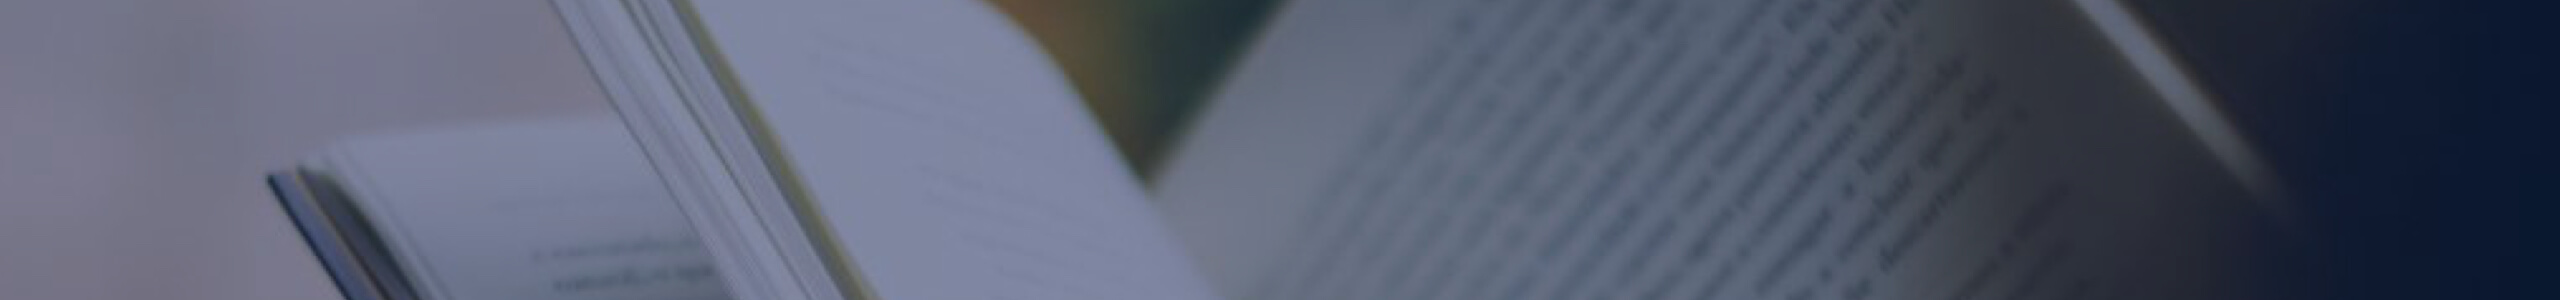
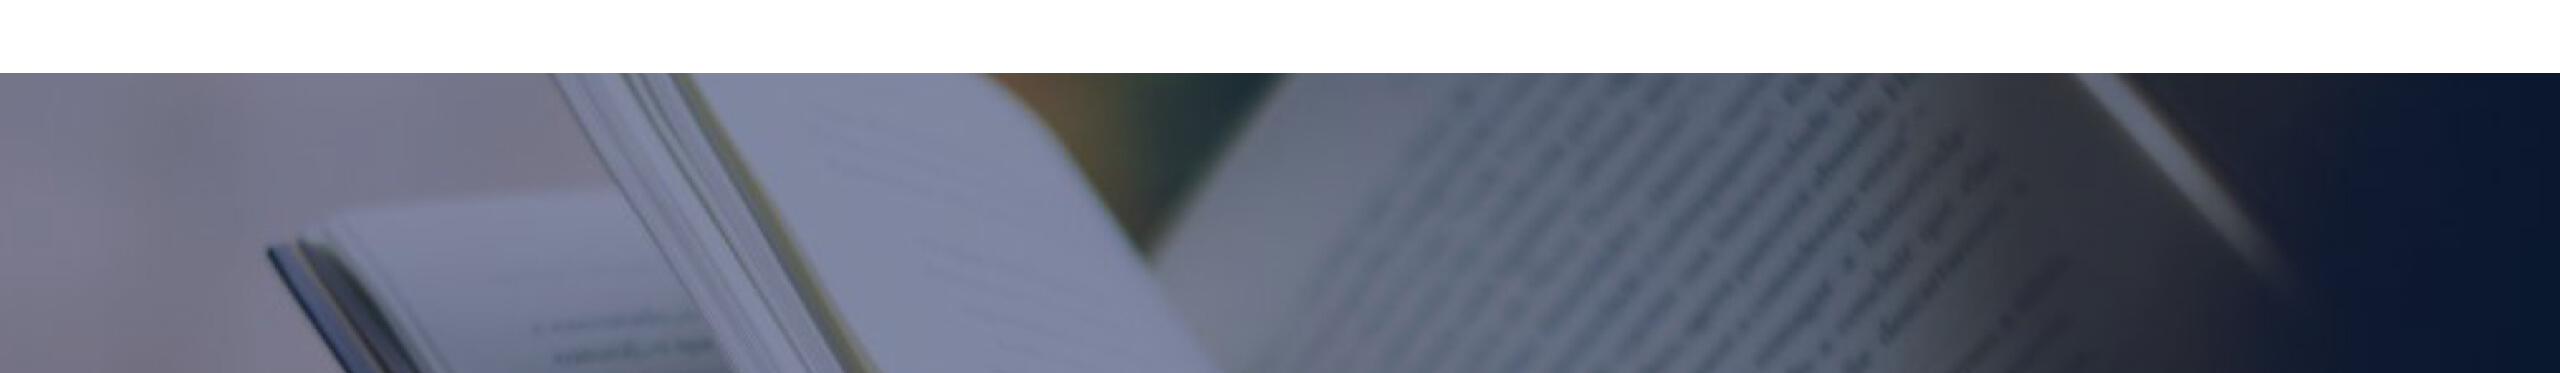
fix some bug
fix some bug

Changed region(s): [[0.0, 0.0, 1.0, 0.87], [0.0938, 0.57, 0.1562, 0.93], [0.2188, 0.42, 0.25, 0.48]]

diff --git a/themes/san/source/css/site.css b/themes/san/source/css/site.css
@@ -6,22 +6,22 @@ body{
 
 
 .home-intro{
-  font-size: 41px;
-  font-weight: 100;
-  color: rgba(255,255,255,.5);
-  letter-spacing: 1px;
-  margin: 0;
+  font-size: 31px;
+    font-weight: 100;
+    color: rgba(255,255,255,.2);
+    letter-spacing: 1px;
+    margin: 0;
+    line-height: 33px;
 }
 
-
-p {
-  /*font-size: 12px;*/
-  line-height: 18px;
-  /*color: #969699;*/
-  /*font-weight: 300;*/
-  margin: 0;
+.home-intro-p{
+  color: rgba(255,255,255,.7);
+  font-size: 16px;
+  padding-right: 90px;
+  padding-left: 5px;
+  font-weight: 200;
+  line-height: 30px;
 }
-
 
 .btn:hover, .btn:focus {
   color: #fff;
@@ -97,7 +97,7 @@ home-landscape
 
 .home-landscape {
   width: 100%;
-  min-height: 557px;
+  max-height: 567px;
   /*background: url("../img/background2.jpg") bottom;*/
   background-color: #102131;
   background-repeat: no-repeat;
@@ -111,13 +111,15 @@ home-landscape
 }
 
 .home-landscape-content-left h1{
-  font-size: 58px;
-    line-height: 90px;
+  font-size: 40px;
+    line-height: 62px;
     color: #fff;
     font-weight: 800;
     margin: 0;
     letter-spacing: 2px;
+    margin-bottom: 23px;
 }
+
 
 .background-img{
   position: absolute;
@@ -142,23 +144,23 @@ home-landscape
 .home-landscape-content{
   max-width: 1130px;
   margin: 0 auto;
-  padding-top: 10%;
   position: relative;
 }
 
-/*.ellipse{
-    position: absolute;
-    left: 50%;
-    margin-left: -720px;
-    z-index: 1;
-}*/
-.home-landscape-content-left>h1{
-  margin-bottom: 20px;
-}
 .home-landscape-content-right{
-  position: absolute;
-  top: -15px;
-  right: -130px;
+  width: 62%;
+  margin-right: -300px;
+  margin-left: -6%;
+  position: relative;
+  display: inline-block;
+  vertical-align: top;
+}
+.home-landscape-content-left{
+  width: 54%;
+  display: inline-block;
+  vertical-align: top;
+  padding-top: 9%;
+  position: relative;
 }
 
 #bm{
@@ -167,16 +169,36 @@ home-landscape
 }
 
 @media screen and (max-width: 768px){
-  .home-landscape-content-right{
-    position: relative;
-    right: 0;
-    top: 0;
-    margin-top: 50px;
+
+  .home-landscape {
+    max-height: 1000px;
   }
+  .home-landscape-content-right{
+    display: block;
+    width: 100%;
+    margin:0; 
+  }
+  .home-landscape-content-left{
+    display: block;
+    width: 100%;
+    box-sizing: border-box;
+    padding: 0 20px;
+  }
+  .home-landscape-content-left h1{
+    font-size: 25px;
+    line-height: 30px;
+  }
+  .home-intro-p{
+    padding: 0;
+    font-size: 14px;
+    line-height: 20px;
+  }
+
   #bm{
     max-width: 600px;
     margin: 0 auto; 
   }
+
 }
 
 /*#oval {
@@ -219,7 +241,7 @@ home-landscape
   position: absolute;
   top: 50%;
   left: 50%;
-  margin-left: -73px;
+  margin-left: -85px;
   margin-top: -9px;
 }
 .navigation-logo>p{
@@ -316,7 +338,7 @@ home-landscape
     font-size: 14px;
     position: relative;
     line-height: 14px;
-    padding: 14px 16px;
+    padding: 15px 16px;
     text-decoration: none;
     display: block;
     border-bottom: 1px solid #f9f9f9;
@@ -818,13 +840,17 @@ margin: 0;
 }
 .home-cooperate-top{
   margin: 133px auto 0 auto;
-  width:33%; 
+  width:27%; 
   height:144px;
   border-top:2px solid #DBE4FD;
   border-left:2px solid #DBE4FD; 
   border-right:2px solid #DBE4FD;
   box-sizing: border-box;
   padding-top: 37px;
+}
+
+.academic-decoration{
+  margin-left: -4px;
 }
 
 .home-cooperate-middle{
@@ -968,7 +994,7 @@ display: block;
 }
 .home-business-left-intro h4,.home-cooperate-top h4{
     font-family: PingFangSC-Semibold;
-    font-size: 37px;
+    font-size: 30px;
     color: #030303;
     letter-spacing: 3.02px;
     margin: 5px 0;
@@ -1109,6 +1135,7 @@ color: #030303;
 letter-spacing: 0.79px;
 line-height: 38px;
 font-weight: 200;
+margin: 0;
 }
 .home-contact-us-left>p>span{
 opacity: 0.4;
@@ -1155,13 +1182,7 @@ margin: 76px 0 37px 30px;
 .float{
   animation: none;
 }
-.home-landscape-content-left h1{
-font-size: 40px;
-line-height: 45px;
-}
-.home-intro{
-  font-size: 28px;
-}
+
 
 .home-landscape-content-left{
   text-align: center;
@@ -1358,15 +1379,4 @@ line-height: 45px;
 .home-contact-right>p{
   margin-left: 0;
 }
-}
-@media screen and (max-width: 432px){
-  .home-landscape-content-left h1{
-    font-size: 32px;
-    line-height: 36px;
-  }
-
-  .home-intro{
-    font-size: 22px;
-  }
-
 }

diff --git a/themes/san/source/css/style.css b/themes/san/source/css/style.css
@@ -30,7 +30,7 @@ dl, dt, dd, ol, ul, li {
   position: absolute;
   top: 50%;
   left: 50%;
-  margin-left: -73px;
+  margin-left: -85px;
   margin-top: -9px;
 }
 .ynavigation-logo>p{
@@ -114,7 +114,7 @@ dl, dt, dd, ol, ul, li {
     font-size: 14px;
     position: relative;
     line-height: 14px;
-    padding: 17px 16px;
+    padding: 18px 16px;
     text-decoration: none;
     display: block;
     border-bottom: 1px solid #f9f9f9;
@@ -436,12 +436,11 @@ line-height: 27px;
 
 .page-info{
     margin-bottom: 50px;
-    margin-top: 72px;
     text-align: center;
-    padding: 40px;
+    padding: 130px 10px 40px 10px;
     color: #4e6167;
     background: #F4F7FC;
-    background: url("../img/paperback.jpg") bottom;
+    background: url("../img/paperback.jpg") center top;
 }
 
 .page-info h1 {

diff --git a/themes/san/source/css/article.css b/themes/san/source/css/article.css
@@ -54,19 +54,7 @@
 
 }
 
-#to-gallery{
-    font-size: 12px;
-    font-weight: 300;
-    color: #cacaca;
-    position: absolute;
-    right: 7px;
-    bottom: 7px;
-    text-decoration: none;
-}
 
-#to-gallery:hover{
-    color: #4778ee;
-}
 
 /*页面插入iframe样式控制*/
 .article-look-outside{
@@ -98,7 +86,9 @@
 }
 
 /*页面文字样式控制*/
-
+.article-invisibleh2{
+    display: none;
+}
 
 /*页面右侧浮动元素的样式*/
 .toc-wrap {
@@ -252,7 +242,7 @@ article h1 {
     font-size: 32px;
     color: #030303;
     line-height: 3rem;
-    margin: 0 0 40px;
+    margin: 0 0 45px;
     font-weight: 500;
 }
 

diff --git a/source/_posts/chartusage/stackedarea.md b/source/_posts/chartusage/stackedarea.md
@@ -7,7 +7,8 @@ tags:
     - 部分
 ---
 
-## 介绍
+<h2 class="article-invisibleh2">介绍</h2>
+
 堆积面积图是一种特殊的面积图，可以用来比较在一个区间内的多个变量。堆叠面积图和面积图的区别在于，堆叠面积图每个数据系列的起点都是基于前一个数据系列绘制的，也就是每度量一行就要填满行与行之间的区域。
 
 如果有多个数据系列，并想分析每个类别的部分到整体的关系，并展现部分量对于总量的贡献时，使用堆积面积图是非常合适的选择。例如下图显示某个销售员对总销售额的贡献。

diff --git a/source/_posts/chartusage/area.md b/source/_posts/chartusage/area.md
@@ -7,7 +7,7 @@ tags:
     - 波动
 ---
 
-## 介绍
+<h2 class="article-invisibleh2">介绍</h2>
 
 面积图又叫区域图，与折线图很相近，都可以用来展示随着连续时间的推移数据的变化趋势。区别在于，面积图在折线与类别数据的水平轴（X轴）之间填充颜色或者纹理，形成一个面表示数据体积。相对于折线而言，被填充的区域可以更好的引起人们对总值趋势的注意，所以面积图主要用于传达趋势的大小，而不是确切的单个数据值。
 

diff --git a/source/_posts/chartusage/bubble.md b/source/_posts/chartusage/bubble.md
@@ -4,7 +4,7 @@ subtitle: Bubble Chart
 
 ---
 
-## 介绍
+<h2 class="article-invisibleh2">介绍</h2>
 
 气泡图是显示变量之间相关性的一种图表。与散点图类似。在直角坐标系中显示数据的两个变量（X和Y轴）之间的关系，数据显示为点的集合。与散点图不同的是，气泡图是一个多变量图，它增加了第三个数值即气泡大小的变量，在气泡图中，较大的气泡表示较大的值。可以通过气泡的位置分布和大小比例，来分析数据的规律。
 

diff --git a/source/_posts/chartusage/scatter.md b/source/_posts/chartusage/scatter.md
@@ -4,7 +4,7 @@ subtitle: Scatter Plot
 
 ---
 
-## 介绍
+<h2 class="article-invisibleh2">介绍</h2>
 
 散点图在直角坐标系显示数据的两个变量（X和Y轴）之间的关系，数据显示为点的集合，适合用于在不考虑时间的情况下比较大量的数据点。散点图通常用来识别两个变量之间的相关性或用来观察他们的关系，从而发现某种趋势，对于查找异常值或理解数据分布也很有效。如下图某个班级学生身高和体重的分布状况。
 

diff --git a/source/_posts/chartusage/funnel.md b/source/_posts/chartusage/funnel.md
@@ -4,7 +4,7 @@ subtitle: Funnel Chart
 
 ---
 
-## 介绍
+<h2 class="article-invisibleh2">介绍</h2>
 
 漏斗图又叫倒三角图，漏斗图将数据呈现为几个阶段，每个阶段的数据都是整体的一部分，从一个阶段到另一个阶段数据自上而下逐渐下降，所有阶段的占比总计100％。与饼图一样，漏斗图呈现的也不是具体的数据，而是该数据相对于总数的占比、漏斗图不需要使用任何数据轴。
 

diff --git a/source/_posts/chartusage/stacked-bar.md b/source/_posts/chartusage/stacked-bar.md
@@ -4,7 +4,7 @@ subtitle: Stacked Bar Chart
 
 ---
 
-## 介绍
+<h2 class="article-invisibleh2">介绍</h2>
 
 堆叠柱状图是柱状图的扩展，不同的是，柱状图的数据值为并行排列，堆叠柱图则是一个个叠加起来的。它可以展示每一个分类的总量，以及该分类包含的每个小分类的大小及占比，因此非常适合处理部分与整体的关系。
 

diff --git a/source/_posts/chartusage/radar.md b/source/_posts/chartusage/radar.md
@@ -4,7 +4,7 @@ subtitle: Radar Chart
 
 ---
 
-## 介绍
+<h2 class="article-invisibleh2">介绍</h2>
 
 雷达图（Radar Chart）又被叫做蜘蛛网图，适用于显示三个或更多的维度的变量。雷达图是以在同一点开始的轴上显示的三个或更多个变量的二维图表的形式来显示多元数据的方法，其中轴的相对位置和角度通常是无意义的。
 

diff --git a/source/_posts/chartusage/gauge.md b/source/_posts/chartusage/gauge.md
@@ -4,7 +4,7 @@ subtitle: Gauger Chart
 
 ---
 
-## 介绍
+<h2 class="article-invisibleh2">介绍</h2>
 
 仪表盘也被称为拨号图表或速度表图。其显示类似于拨号/速度计上的读数的数据，是一种拟物化的展示形式。仪表盘的颜色可以用来划分指示值的类别，使用刻度标示数据，指针指示维度，指针角度表示数值。
 

diff --git a/source/_posts/chartusage/bar.md b/source/_posts/chartusage/bar.md
@@ -4,7 +4,7 @@ subtitle: Bar Chart
 
 ---
 
-## 介绍
+<h2 class="article-invisibleh2">介绍</h2>
 
 柱状图是最常见的图表类型，通过使用水平或垂直方向柱子的高度来显示不同类别的数值，其中柱状图的一个轴显示正在比较的类别，而另一个轴代表对应的刻度值。
 
